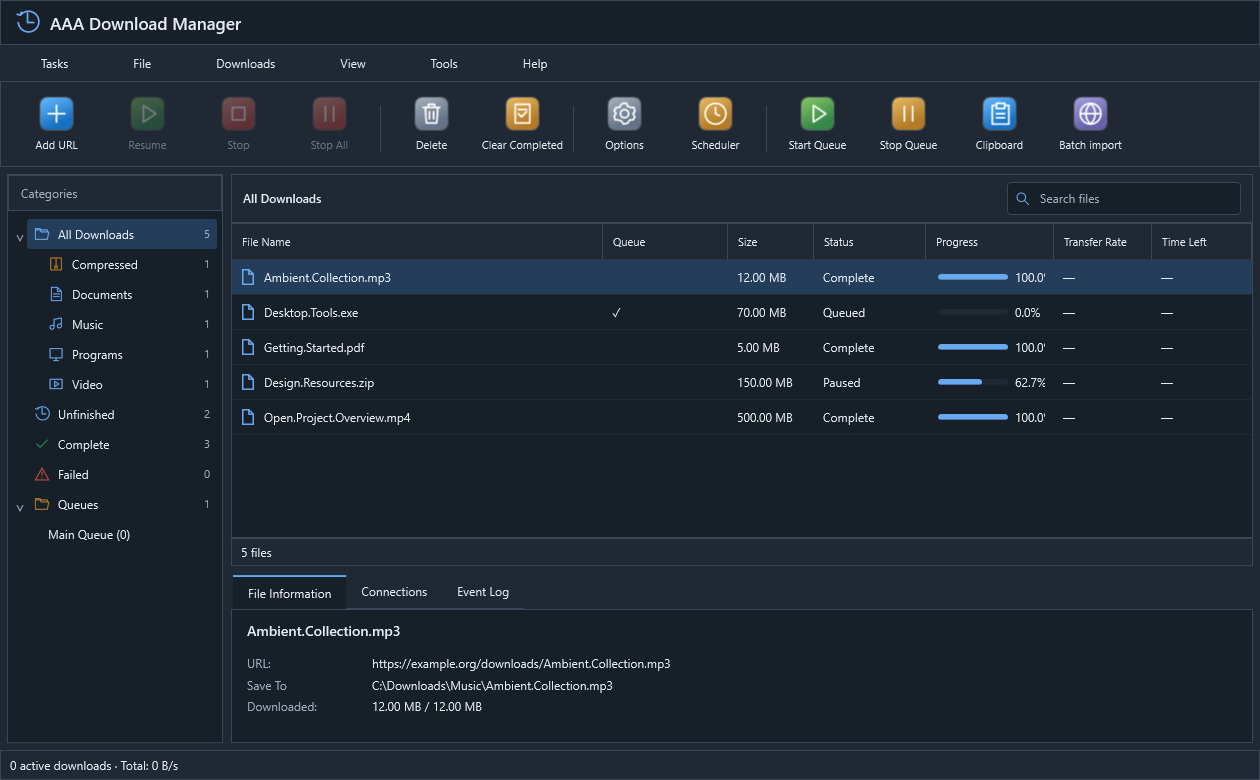
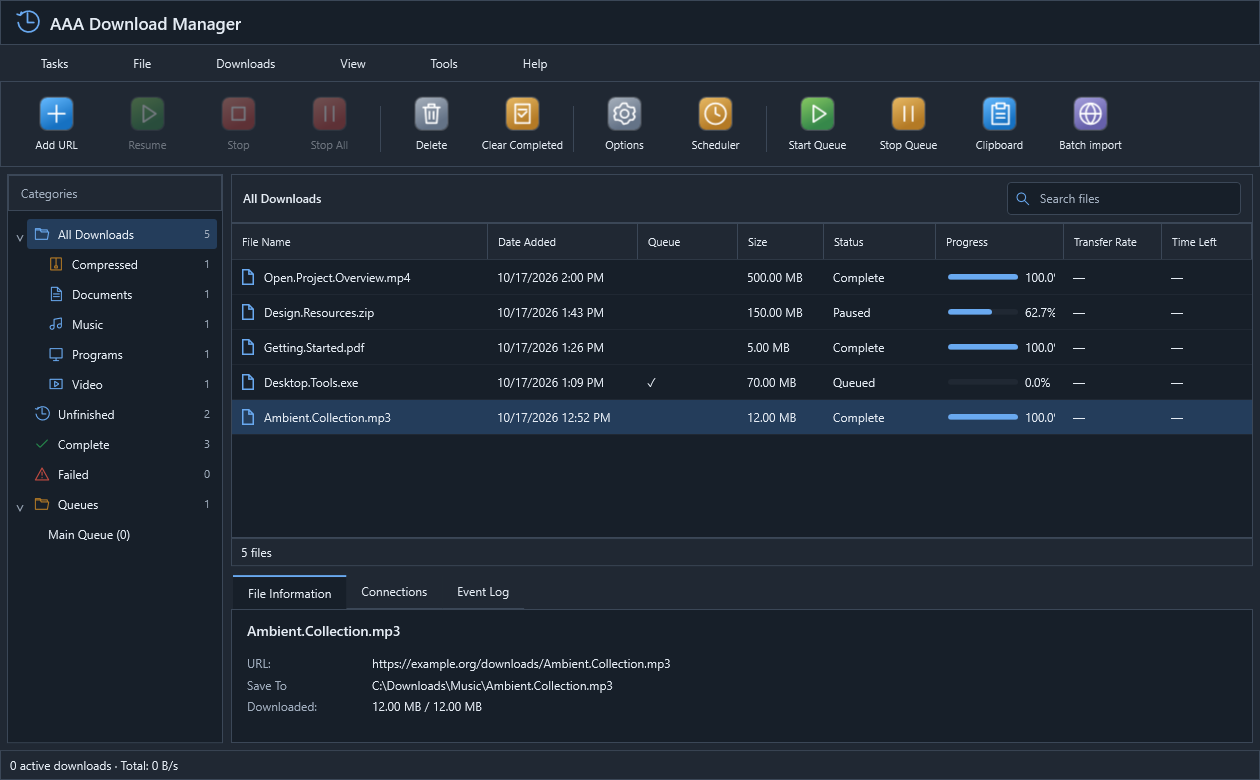
docs: update installer link and main window screenshot for 0.5.8

Changed region(s): [[0.1857, 0.3077, 1.0, 0.5538]]

diff --git a/README.md b/README.md
@@ -12,11 +12,11 @@ A native Windows download manager built with C# / .NET 10 and WPF. The interface
 
 ## Downloads and installation
 
-**[Download the Windows x64 installer — 0.5.7 Preview](https://github.com/withcerAi/AAA-Download-Manager/releases/download/v0.5.7-preview/AAA-Download-Manager-0.5.7-Setup-x64.exe)** · [Release notes and SHA-256 checksum](https://github.com/withcerAi/AAA-Download-Manager/releases/tag/v0.5.7-preview)
+**[Download the Windows x64 installer — 0.5.8 Preview](https://github.com/withcerAi/AAA-Download-Manager/releases/download/v0.5.8-preview/AAA-Download-Manager-0.5.8-Setup-x64.exe)** · [Release notes and SHA-256 checksum](https://github.com/withcerAi/AAA-Download-Manager/releases/tag/v0.5.8-preview)
 
 This preview installer uses a personal **self-signed** certificate. It is not CA-trusted and Windows may still show publisher or SmartScreen warnings. See the [code signing policy](CODE_SIGNING.md).
 
-The Windows x64 installer is named `AAA-Download-Manager-0.5.7-Setup-x64.exe`. Installers are distributed through GitHub Releases and are not stored in Git source history. This full package includes the .NET runtime, media tools and browser extension files. Users do not need a separate .NET, Python, Node.js or WebView2 installation. Review and accept the English terms on the installer license page. To install unattended after reviewing and authorizing the terms, supply `/ACCEPTTERMS=1`; silent installation without that argument is rejected.
+The Windows x64 installer is named `AAA-Download-Manager-0.5.8-Setup-x64.exe`. Installers are distributed through GitHub Releases and are not stored in Git source history. This full package includes the .NET runtime, media tools and browser extension files. Users do not need a separate .NET, Python, Node.js or WebView2 installation. Review and accept the English terms on the installer license page. To install unattended after reviewing and authorizing the terms, supply `/ACCEPTTERMS=1`; silent installation without that argument is rejected.
 
 The package remains a preview. Server, browser and operating-system support determine which operations are available. No download speed, file authenticity, safe content or successful recovery is guaranteed.
 
@@ -59,7 +59,7 @@ GitHub Actions builds and tests the project on a GitHub-hosted Windows runner fo
 Use the .NET 10 SDK on Windows:
 
 ```powershell
-dotnet publish src/DownloadManager.Desktop/DownloadManager.Desktop.csproj -c Release -r win-x64 --self-contained true -o release/DownloadManager-0.5.7-preview --configfile NuGet.Config
+dotnet publish src/DownloadManager.Desktop/DownloadManager.Desktop.csproj -c Release -r win-x64 --self-contained true -o release/DownloadManager-0.5.8-preview --configfile NuGet.Config
 ```
 
 `installer/build.ps1` publishes the desktop and native host and compiles the Inno Setup installer. `browser-extension/build.py --version 0.5.3` synchronizes the canonical extension source.
